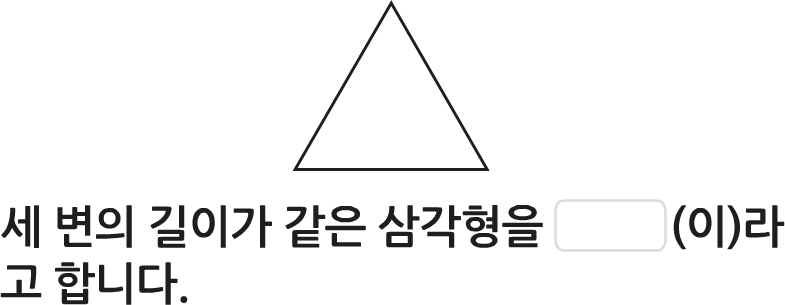
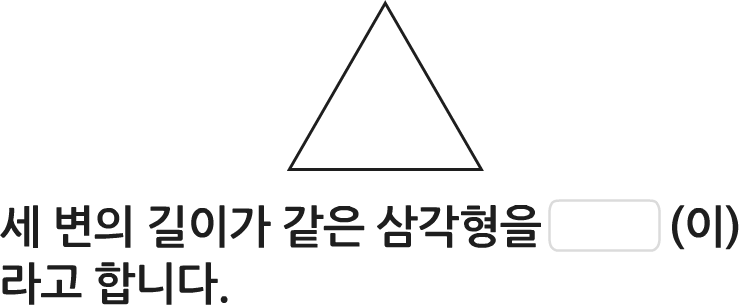
수정사항 반영

diff --git a/game_animal/game_4_2_4_hard.html b/game_animal/game_4_2_4_hard.html
@@ -62,7 +62,7 @@
 							<!-- quiz choice -->
 							<div class="quiz quiz-choice hidden" data-answer="1">
 								<div class="quest">
-									<span class="quiz-num">1</span><span class="example-write-box"></span> 안에 알맞은 말을 고르세요.
+									<span class="quiz-num">1</span><span class="example-write-box"></span> 안에 알맞은 수를 고르세요.
 								</div>
 								<div class="quiz-example-wrap type5">
 									<div class="inset">
@@ -89,7 +89,7 @@
 							<!-- quiz choice -->
 							<div class="quiz quiz-choice hidden" data-answer="3">
 								<div class="quest">
-									<span class="quiz-num">2</span><span class="example-write-box"></span> 안에 알맞은 말을 고르세요.
+									<span class="quiz-num">2</span><span class="example-write-box"></span> 안에 알맞은 수를 고르세요.
 								</div>
 								<div class="quiz-example-wrap type5">
 									<div class="inset">
@@ -116,7 +116,7 @@
 							<!-- quiz choice -->
 							<div class="quiz quiz-choice hidden" data-answer="1">
 								<div class="quest">
-									<span class="quiz-num">3</span>주어진 사각형은 마름모입니다. <span class="example-write-box"></span> 안에 들어갈 수 있는 수를 고르세요.
+									<span class="quiz-num">3</span>주어진 사각형은 마름모입니다. <span class="example-write-box"></span> 안에 알맞은 수를 고르세요.
 								</div>
 								<div class="quiz-example-wrap type4">
 									<div class="inset">

diff --git a/game_jungle/game_4_2_2_normal.html b/game_jungle/game_4_2_2_normal.html
@@ -65,7 +65,7 @@
 								</div>
 								<div class="quiz-example-wrap al_l">
 									<div class="inset">
-										<p class="example">예각삼각형은 세 각의 크기가 모두 <span class="example-write-box" style="width: 70px;"></span>˚보다 작습니다.</p>
+										<p class="example">예각삼각형은 세 각의 크기가 모두 <span class="example-write-box" style="width: 70px;"></span>˚<br>보다 작습니다.</p>
 									</div>
 								</div>
 								<div class="list-con">
@@ -109,11 +109,11 @@
 							<!-- quiz choice -->
 							<div class="quiz quiz-choice hidden" data-answer="1">
 								<div class="quest">
-									<span class="quiz-num">3</span>알맞은 것을 고르세요.
+									<span class="quiz-num">3</span>예각삼각형을 고르세요.
 								</div>
 								<div class="quiz-example-wrap" style="height: 250px;">
 									<div class="inset">
-										<p class="example">예각삼각형</p>
+										<p class="example"></p>
 									</div>
 								</div>
 								<div class="list-con type2">

diff --git a/game_animal/game_4_2_1_hard.html b/game_animal/game_4_2_1_hard.html
@@ -59,7 +59,7 @@
 							<!-- quiz choice -->
 							<div class="quiz quiz-choice hidden" data-answer="3">
 								<div class="quest">
-									<span class="quiz-num">1</span><span class="example-write-box"></span> 안에 들어갈 수 있는 가장 큰 수를 고르세요.
+									<span class="quiz-num">1</span><span class="example-write-box"></span> 안에 들어갈 수 있는 가장 큰 수를 <br>고르세요.
 								</div>
 								<div class="quiz-example-wrap">
 									<div class="inset">
@@ -113,7 +113,7 @@
 							<!-- quiz choice -->
 							<div class="quiz quiz-choice hidden" data-answer="2">
 								<div class="quest">
-									<span class="quiz-num">3</span><span class="example-write-box"></span> 안에 들어갈 수 있는 수를 고르세요.
+									<span class="quiz-num">3</span><span class="example-write-box"></span> 안에 알맞은 수를 고르세요.
 								</div>
 								<div class="quiz-example-wrap">
 									<div class="inset">

diff --git a/game_world/game_4_2_3_hard.html b/game_world/game_4_2_3_hard.html
@@ -59,11 +59,11 @@
 							<!-- quiz choice -->
 							<div class="quiz quiz-choice hidden" data-answer="3">
 								<div class="quest">
-									<span class="quiz-num">1</span><span class="example-write-box"></span> 안에 알맞은 수를 고르세요.
+									<span class="quiz-num">1</span><span class="example-write-box"></span> 안에 알맞은 숫자를 고르세요.
 								</div>
 								<div class="quiz-example-wrap al_l">
 									<div class="inset">
-										<p class="example">3.284에서 소수 첫째 자리 수는 <span class="example-write-box" style="width: 50px;"></span>입니다.</p>
+										<p class="example">3.284에서 소수 둘째 자리 숫자는 <span class="example-write-box" style="width: 50px;"></span>입니다.</p>
 									</div>	
 								</div>
 								<div class="list-con">

diff --git a/game_animal/game_4_2_4_normal.html b/game_animal/game_4_2_4_normal.html
@@ -110,9 +110,9 @@
 							<!-- quiz choice -->
 							<div class="quiz quiz-choice hidden" data-answer="2">
 								<div class="quest">
-									<span class="quiz-num">3</span>그림을 보고 사다리꼴을 찾아보세요.
+									<span class="quiz-num">3</span>그림을 보고 사다리꼴이 아닌 것을 찾아보세요.
 								</div>
-								<div class="quiz-example-wrap type5">
+								<div class="quiz-example-wrap type4">
 									<div class="inset">
 										<p class="example"><img src="../common/images/quiz_img_4_2_4_3.png" alt=""></p>
 									</div>	

diff --git a/game_world/game_4_2_6_easy.html b/game_world/game_4_2_6_easy.html
@@ -105,7 +105,7 @@
 								</div>
 								<div class="quiz-example-wrap al_l">
 									<div class="inset">
-										<p class="example">서로 이웃하지 않은 두 꼭짓점을 이은 선분을 대각선이라고 합니다.</p>
+										<p class="example">서로 이웃하지 않는 두 꼭짓점을 이은 선분을 대각선이라고 합니다.</p>
 									</div>	
 								</div>
 								<div class="list-con type-ox">

diff --git a/game_jungle/game_4_2_2_easy.html b/game_jungle/game_4_2_2_easy.html
@@ -65,7 +65,7 @@
 								</div>
 								<div class="quiz-example-wrap al_l">
 									<div class="inset">
-										<p class="example">두 변의 길이가 같은 삼각형을 이등변삼각형이라고 합니다.</p>
+										<p class="example">두 변의 길이가 같은 삼각형을 이등변<br>삼각형이라고 합니다.</p>
 									</div>	
 								</div>
 								<div class="list-con type-ox">

diff --git a/game_animal/game_4_2_1_normal.html b/game_animal/game_4_2_1_normal.html
@@ -96,7 +96,7 @@
 								</div>
 								<div class="list-con">
 									<div class="list">
-										<span>4</span>
+										<span>14</span>
 									</div>
 									<div class="list">
 										<span>9</span>
